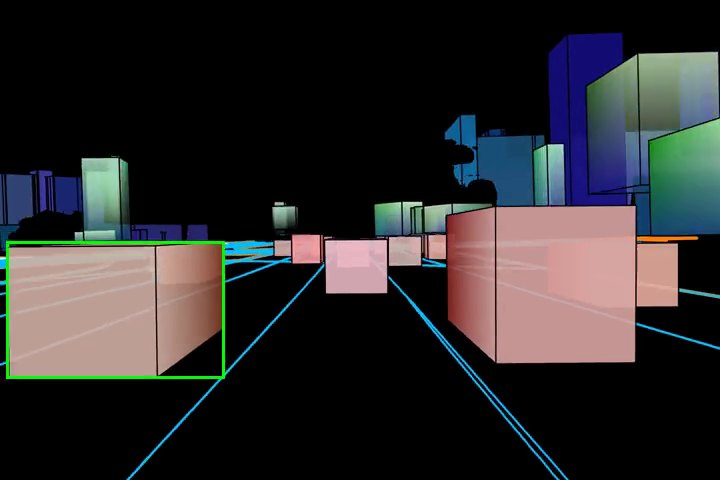
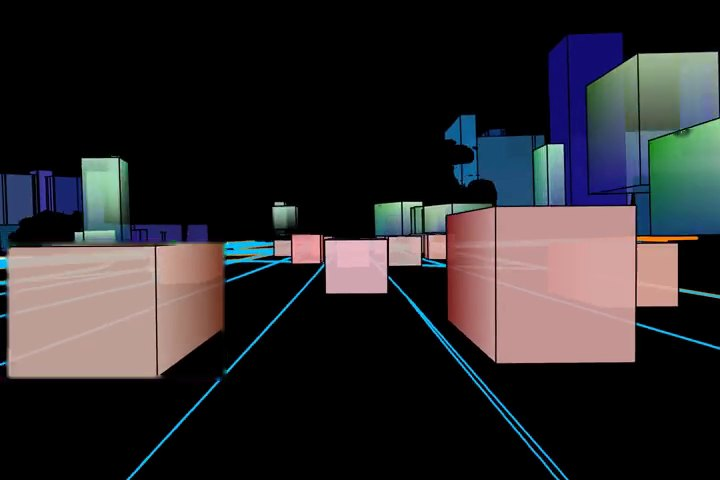
Real example strip: instance silhouettes (SUV solid, building hatched) in the token fills, lit in sync with the figure
Claude-Session: https://claude.ai/code/session_01Ky2z9o8KyFMjtty1dmJE5T

Changed region(s): [[0.0, 0.5, 0.3361, 0.8125], [0.9472, 0.25, 0.9778, 0.2812]]

diff --git a/index.html b/index.html
@@ -11,7 +11,7 @@
   <link rel="stylesheet" href="https://fonts.googleapis.com/css2?family=Inter+Tight:wght@400;500;600;700;800&family=JetBrains+Mono:wght@500;600&display=swap">
   <link rel="preload" as="image" href="videos/teaser/canvas.jpg?v=202611201215" fetchpriority="high">
   <link rel="preload" as="image" href="videos/teaser/generated.jpg?v=202611201215" fetchpriority="high">
-  <link rel="stylesheet" href="static/css/style.css?v=202611230300">
+  <link rel="stylesheet" href="static/css/style.css?v=202611230400">
   <link rel="stylesheet" href="static/css/walkthrough.css?v=202611191956">
   <!-- Google Analytics (GA4) -->
   <script async src="https://www.googletagmanager.com/gtag/js?id=G-E318VLRCNZ"></script>
@@ -153,12 +153,12 @@
     </figure>
 
     <div class="mreal" data-mfig-real="memory-method">
-      <p class="mreal-k">Real example (nuPlan): the grey SUV (green box) leaves the view and returns 15 s later.</p>
+      <p class="mreal-k">Real example (nuPlan), with the token fills of the figure: <span class="sw sw-veh"></span>the grey SUV, which leaves the view and returns 15 s later, and <span class="sw sw-bld"></span>a building. Each silhouette lights up when its tokens move above.</p>
       <div class="mreal-grid">
-        <figure><img src="static/images/memory-method/ref-canvas.jpg?v=202611230200" alt="Blocks-world canvas of the reference frame, SUV box outlined" width="720" height="480" loading="lazy" decoding="async"><figcaption>Reference frame · blocks world</figcaption></figure>
-        <figure><img src="static/images/memory-method/ref-memoir.jpg?v=202611230200" alt="MemOIR generation of the reference frame, SUV outlined" width="720" height="480" loading="lazy" decoding="async"><figcaption>Generated · 0.8 s (SUV cached)</figcaption></figure>
-        <figure><img src="static/images/memory-method/tgt-canvas.jpg?v=202611230200" alt="Blocks-world canvas of the target frame after the SUV returns" width="720" height="480" loading="lazy" decoding="async"><figcaption>Target frame · blocks world</figcaption></figure>
-        <figure class="is-ours"><img src="static/images/memory-method/tgt-memoir.jpg?v=202611230200" alt="MemOIR generation of the target frame, the returning SUV keeps its appearance" width="720" height="480" loading="lazy" decoding="async"><figcaption>Generated · 15.8 s (SUV returns)</figcaption></figure>
+        <figure><div class="mreal-media"><img src="static/images/memory-method/ref-canvas.jpg?v=202611230500" alt="Blocks-world canvas of the reference frame" width="720" height="480" loading="lazy" decoding="async"><img class="mreal-sil" data-inst="veh" data-panel="0" src="static/images/memory-method/ref-canvas-veh.png?v=202611230500" alt="" width="720" height="480" loading="lazy" decoding="async"><img class="mreal-sil" data-inst="bld" data-panel="0" src="static/images/memory-method/ref-canvas-bld.png?v=202611230500" alt="" width="720" height="480" loading="lazy" decoding="async"></div><figcaption>Reference frame · blocks world</figcaption></figure>
+        <figure><div class="mreal-media"><img src="static/images/memory-method/ref-memoir.jpg?v=202611230500" alt="MemOIR generation of the reference frame" width="720" height="480" loading="lazy" decoding="async"><img class="mreal-sil" data-inst="veh" data-panel="1" src="static/images/memory-method/ref-memoir-veh.png?v=202611230500" alt="" width="720" height="480" loading="lazy" decoding="async"><img class="mreal-sil" data-inst="bld" data-panel="1" src="static/images/memory-method/ref-memoir-bld.png?v=202611230500" alt="" width="720" height="480" loading="lazy" decoding="async"></div><figcaption>Generated · 0.8 s</figcaption></figure>
+        <figure><div class="mreal-media"><img src="static/images/memory-method/tgt-canvas.jpg?v=202611230500" alt="Blocks-world canvas of the target frame after the SUV returns" width="720" height="480" loading="lazy" decoding="async"><img class="mreal-sil" data-inst="veh" data-panel="2" src="static/images/memory-method/tgt-canvas-veh.png?v=202611230500" alt="" width="720" height="480" loading="lazy" decoding="async"></div><figcaption>Target frame · blocks world</figcaption></figure>
+        <figure class="is-ours"><div class="mreal-media"><img src="static/images/memory-method/tgt-memoir.jpg?v=202611230500" alt="MemOIR generation of the target frame; the returning SUV keeps its appearance" width="720" height="480" loading="lazy" decoding="async"><img class="mreal-sil" data-inst="veh" data-panel="3" src="static/images/memory-method/tgt-memoir-veh.png?v=202611230500" alt="" width="720" height="480" loading="lazy" decoding="async"></div><figcaption>Generated · 15.8 s (SUV returns)</figcaption></figure>
       </div>
     </div>
 
@@ -366,7 +366,7 @@ scene.remove(<span class="s">"ped045"</span>)                         <span clas
   </div>
 </footer>
 
-<script src="static/js/main.js?v=202611230300"></script>
+<script src="static/js/main.js?v=202611230400"></script>
 <script src="static/js/walkthrough.js?v=202611201215"></script>
 </body>
 </html>

diff --git a/static/js/main.js b/static/js/main.js
@@ -705,6 +705,12 @@ const MF = {
   warp: 'M661,245 C770,300 772,470 678,548 M672,553 C552,622 532,786 603,860',
   rate: 0.62,                                            // playback speed (timeline ms per real ms)
   real: [[0, 1], [0], [1, 2], [2]],                      // stages in which each real-example panel is lit
+  // windows (timeline ms) in which each silhouette is lit, per panel (ref canvas, ref MemOIR, target canvas,
+  // target MemOIR), matching the moments its tokens move in the figure; all are lit in the final hold
+  sil: {
+    veh: [[[1200, 3300], [4800, 7200]], [[1200, 3300]], [[6400, 9300]], [[9900, 14200]]],   // ID 0x3f, solid
+    bld: [[[1650, 3750]], [[1650, 3750]], [], []],                                          // ID 0xe7, hatched
+  },
 };
 
 const mfClamp = x => x < 0 ? 0 : x > 1 ? 1 : x;
@@ -718,6 +724,7 @@ class MemoryMethod {
     this.root = root;
     this.cards = [...document.querySelectorAll(`[data-mfig="${root.id}"]`)];
     this.real = [...document.querySelectorAll(`[data-mfig-real="${root.id}"] figure`)];
+    this.sil = [...document.querySelectorAll(`[data-mfig-real="${root.id}"] .mreal-sil`)];
     this.reduce = window.matchMedia('(prefers-reduced-motion: reduce)').matches;
     this.t = this.reduce ? MF.T - 1 : 0;
     this.playing = false; this.paused = false; this.visible = false; this.last = 0;
@@ -843,6 +850,12 @@ class MemoryMethod {
     });
     this.root.classList.toggle('is-done', cur < 0);
     this.real.forEach((f, i) => f.classList.toggle('is-lit', cur < 0 || MF.real[i].includes(cur)));
+    const hold = mfSeg(t, S[2][1], S[2][1] + 350);
+    this.sil.forEach(s => {
+      let on = hold;
+      for (const [a, b] of MF.sil[s.dataset.inst][+s.dataset.panel]) on = Math.max(on, Math.min(mfSeg(t, a - 350, a), 1 - mfSeg(t, b, b + 350)));
+      s.style.opacity = (0.22 + 0.78 * on).toFixed(3);
+    });
   }
 
   seek(i) {

diff --git a/static/css/style.css b/static/css/style.css
@@ -695,10 +695,15 @@ footer .wrap { display: flex; justify-content: center; }
 .mreal { margin: 16px 0 0; }
 .mreal-k { margin: 0 0 8px; color: var(--ink-2); font-size: 14px; }
 .mreal-grid { display: grid; grid-template-columns: repeat(4, minmax(0, 1fr)); gap: 10px; }
-.mreal figure { margin: 0; opacity: .45; transition: opacity .5s; }
+.mreal figure { margin: 0; opacity: .6; transition: opacity .5s; }
 .mreal figure.is-lit { opacity: 1; }
-.mreal img { display: block; width: 100%; height: auto; border-radius: 8px; border: 1px solid var(--line); background: #000; }
-.mreal figure.is-ours img { border: 2px solid var(--accent); }
+.mreal-media { position: relative; border-radius: 8px; overflow: hidden; border: 1px solid var(--line); background: #000; }
+.mreal figure.is-ours .mreal-media { border: 2px solid var(--accent); }
+.mreal-media img { display: block; width: 100%; height: auto; }
+.mreal-media .mreal-sil { position: absolute; inset: 0; width: 100%; height: 100%; opacity: .22; pointer-events: none; }
+.mreal-k .sw { display: inline-block; width: 13px; height: 13px; margin: 0 5px -2px 2px; border: 1.5px solid #111; border-radius: 3px; }
+.mreal-k .sw-veh { background: #b4def4; }
+.mreal-k .sw-bld { background: repeating-linear-gradient(-45deg, #a9c8f2 0 3px, #fff 3px 7px); }
 .mreal figcaption { margin-top: 6px; color: var(--muted); font-size: 12.5px; text-align: center; }
 .mreal figure.is-ours figcaption { color: var(--accent-ink); font-weight: 600; }
 
